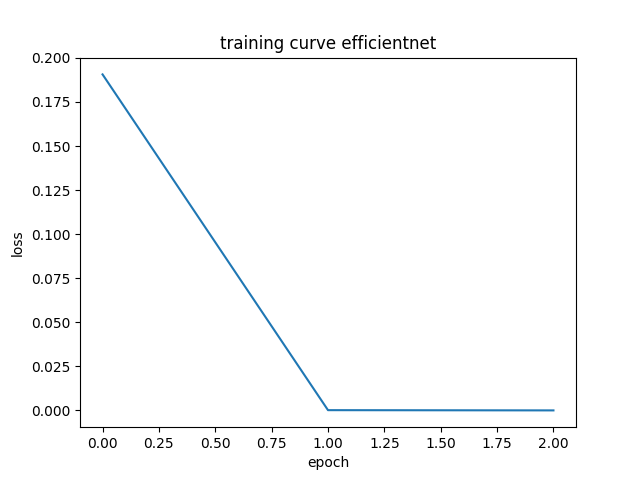
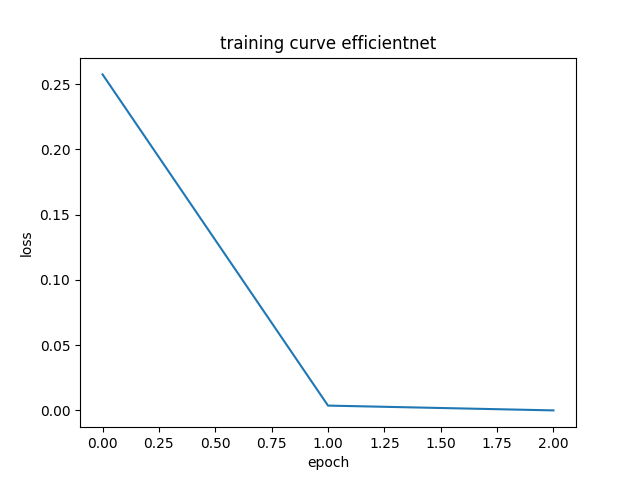
add data augmentation for afm dataset

diff --git a/src/datasets/afm_image_dataset.py b/src/datasets/afm_image_dataset.py
@@ -2,15 +2,36 @@ import torch
 from torch.utils.data import Dataset
 from pathlib import Path
 import cv2
+import torchvision.transforms as transforms
 
 
 class AFMImageDataset(Dataset):
 
-    def __init__(self, dataset_dir):
+    def __init__(self, dataset_dir, augment=False):
 
         self.dataset_dir = Path(dataset_dir)
 
         self.images = list(self.dataset_dir.glob("*.png"))
+
+        if augment:
+
+            self.transform = transforms.Compose([
+                transforms.ToPILImage(),
+                transforms.RandomRotation(20),
+                transforms.RandomHorizontalFlip(),
+                transforms.RandomVerticalFlip(),
+                transforms.ColorJitter(brightness=0.2, contrast=0.2),
+                transforms.Resize((224,224)),
+                transforms.ToTensor()
+            ])
+
+        else:
+
+            self.transform = transforms.Compose([
+                transforms.ToPILImage(),
+                transforms.Resize((224,224)),
+                transforms.ToTensor()
+            ])
 
     def __len__(self):
 
@@ -22,10 +43,8 @@ class AFMImageDataset(Dataset):
 
         image = cv2.imread(str(img_path))
 
-        image = cv2.resize(image, (224, 224))
+        image = cv2.cvtColor(image, cv2.COLOR_BGR2RGB)
 
-        image = image / 255.0
-
-        image = torch.tensor(image).permute(2,0,1).float()
+        image = self.transform(image)
 
         return image

diff --git a/src/training/train_model.py b/src/training/train_model.py
@@ -33,12 +33,14 @@ class Trainer:
 
         self.train_loader = create_dataloader(
             "data/dataset/train",
-            batch_size=batch_size
+            batch_size=batch_size,
+            augment=True
         )
 
         self.val_loader = create_dataloader(
             "data/dataset/val",
-            batch_size=batch_size
+            batch_size=batch_size,
+            augment=False
         )
 
         self.criterion = nn.CrossEntropyLoss()

diff --git a/src/training/afm_dataloader.py b/src/training/afm_dataloader.py
@@ -4,9 +4,9 @@ from torch.utils.data import DataLoader
 from src.datasets.afm_image_dataset import AFMImageDataset
 
 
-def create_dataloader(dataset_path, batch_size=16):
+def create_dataloader(dataset_path, batch_size=16, augment=False):
 
-    dataset = AFMImageDataset(dataset_path)
+    dataset = AFMImageDataset(dataset_path, augment=augment)
 
     dataloader = DataLoader(
         dataset,

diff --git a/src/experiments/run_experiment.py b/src/experiments/run_experiment.py
@@ -38,3 +38,13 @@ def run_experiment(config):
     )
 
     plot_training_curve(losses, config["model_name"])
+
+
+if __name__ == "__main__":
+    test_config = {
+        "model_name": "resnet18",
+        "learning_rate": 0.001,
+        "batch_size": 16,
+        "epochs": 1
+    }
+    run_experiment(test_config)
